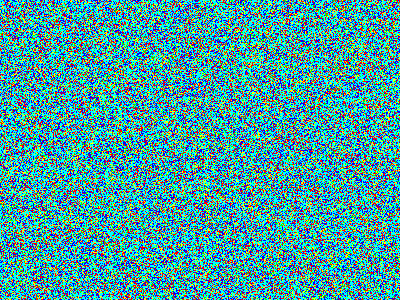
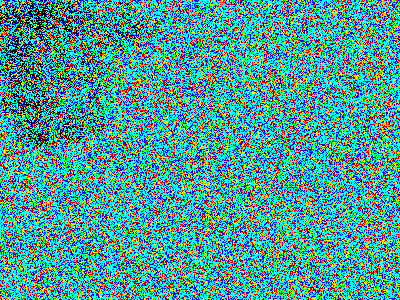
- Added multiple-layer per-tile support. - Created TileMapLayer class, removed drawing routines from TileMap and Tile - Added basic parallax prototype using TileMapLayer.

Changed region(s): [[0.0, 0.0, 0.36, 0.51]]

diff --git a/Western Space/TilingEngine/TileMap.cs b/Western Space/TilingEngine/TileMap.cs
@@ -9,49 +9,47 @@ using WesternSpace.Interfaces;
 
 namespace WesternSpace.TilingEngine
 {
-    public class TileMap : DrawableGameObject, IMapCoordinates
+    // TileMaps are merely the *data* of a grid of tiles.
+    // It knows nothing about how it should be drawn.
+    public class TileMap
     {
-        private SpriteBatch sb;
+        public readonly int gridCellHeight;
+        public readonly int gridCellWidth;
 
-        private int gridCellHeight;
+        private int layerCount;
+        private int subLayerCount;
 
-        private int gridCellWidth;
+        public int LayerCount
+        {
+            get { return layerCount; }
+        }
+
+        public int SubLayerCount
+        {
+            get { return subLayerCount; }
+        }
+
+        public int Width 
+        { 
+            get { return tiles.GetLength(0); }
+        }
+
+        public int Height 
+        {
+            get { return tiles.GetLength(1); }
+        }
 
         private Tile[,] tiles;
 
-        private ICameraService camera;
-
-        #region IMapCoordinates Members
-
-        public float MinimumX
+        public Tile[,] Tiles
         {
-            get { return 0; }
+            get { return tiles; }
         }
 
-        public float MaximumX
+        public TileMap(int cellX, int cellY, int tileWidth, int tileHeight, int layerCount, int subLayerCount)
         {
-            get { return gridCellWidth * tiles.GetLength(0); }
-        }
-
-        public float MinimumY
-        {
-            get { return 0; }
-        }
-
-        public float MaximumY
-        {
-            get { return gridCellHeight * tiles.GetLength(1); }
-        }
-
-        #endregion
-
-        public TileMap(Game game, int cellX, int cellY, int tileWidth, int tileHeight)
-            : base(game)
-        {
-            this.Enabled = false;
-
-            sb = new SpriteBatch(game.GraphicsDevice);
-
+            this.layerCount = layerCount;
+            this.subLayerCount = subLayerCount;
             tiles = new Tile[cellX,cellY];
             gridCellWidth = tileWidth;
             gridCellHeight = tileHeight;
@@ -62,54 +60,5 @@ namespace WesternSpace.TilingEngine
             tiles[x,y] = tile;
         }
 
-        public override void Initialize()
-        {
-            camera = (ICameraService)this.Game.Services.GetService(typeof(ICameraService));
-
-            base.Initialize();
-        }
-
-        public override void Draw(GameTime gameTime)
-        {
-            sb.Begin(SpriteBlendMode.None, SpriteSortMode.BackToFront, SaveStateMode.None, camera.CurrentViewMatrix);
-            float cam_x = camera.Position.X;
-            float cam_y = camera.Position.Y;
-            float cam_w = camera.VisibleArea.Width;
-            float cam_h = camera.VisibleArea.Height;
-
-            int start_x, end_x, start_y, end_y;
-
-            start_x = (int)MathHelper.Clamp((float)Math.Floor((cam_x / gridCellWidth)), 0.0f, (float)tiles.GetLength(0));
-            start_y = (int)MathHelper.Clamp((float)Math.Floor((cam_y / gridCellHeight)), 0.0f, (float)tiles.GetLength(1));
-
-            end_x = (int)MathHelper.Clamp((float)Math.Ceiling(((cam_x+cam_w) / gridCellWidth)), 0.0f, (float)tiles.GetLength(0));
-            end_y = (int)MathHelper.Clamp((float)Math.Ceiling(((cam_y+cam_h) / gridCellWidth)), 0.0f, (float)tiles.GetLength(1));
-
-
-            for (int x = start_x; x < end_x; ++x)
-            {
-                for (int y = start_y; y < end_y; ++y)
-                {
-                    Vector2 position = new Vector2(x * gridCellWidth, y * gridCellHeight);
-
-                    tiles[x, y].Draw(sb, position);
-                }
-            }
-
-            sb.End();
-
-            base.Draw(gameTime);
-        }
-
-        #region IMapCoordinates Members
-
-        public Vector2 CalculateMapCoordinatesFromMouse(Vector2 atPoint)
-        {
-            int x = (int)Math.Floor((camera.Position.X / gridCellWidth) + atPoint.X / gridCellWidth);
-            int y = (int)Math.Floor((camera.Position.Y / gridCellHeight) + atPoint.Y / gridCellHeight);
-            return new Vector2(x, y);
-        }
-
-        #endregion
     }
 }

diff --git a/Western Space/TilingEngine/TileMapLayer.cs b/Western Space/TilingEngine/TileMapLayer.cs
@@ -1,0 +1,120 @@
+using System;
+using System.Collections.Generic;
+using System.Linq;
+using System.Text;
+using Microsoft.Xna.Framework;
+using Microsoft.Xna.Framework.Graphics;
+using WesternSpace.ServiceInterfaces;
+using WesternSpace.Interfaces;
+
+namespace WesternSpace.TilingEngine
+{
+    class TileMapLayer : DrawableGameObject, IMapCoordinates
+    {
+        private SpriteBatch sb;
+        private ICameraService camera;
+
+        private TileMap tm;
+
+        private float scrollSpeed;
+
+        private int layerIndex;
+
+        public int LayerIndex
+        {
+            get { return layerIndex; }
+        }
+
+        #region IMapCoordinates Members
+
+        public float MinimumX
+        {
+            get { return 0; }
+        }
+
+        public float MaximumX
+        {
+            get { return tm.gridCellWidth * tm.Tiles.GetLength(0); }
+        }
+
+        public float MinimumY
+        {
+            get { return 0; }
+        }
+
+        public float MaximumY
+        {
+            get { return tm.gridCellHeight * tm.Tiles.GetLength(1); }
+        }
+
+        #endregion
+
+        public TileMapLayer(Game game, TileMap tm, int layerIndex)
+            : base(game)
+        {
+            this.layerIndex = layerIndex;
+            scrollSpeed = 1.0f;
+            this.tm = tm;
+        }
+
+        public TileMapLayer(Game game, TileMap tm, int layerIndex, float scrollSpeed)
+            : base(game)
+        {
+            this.layerIndex = layerIndex;
+            this.scrollSpeed = scrollSpeed;
+            this.tm = tm;
+        }
+
+        public override void Initialize()
+        {
+            camera = (ICameraService)this.Game.Services.GetService(typeof(ICameraService));
+            sb = new SpriteBatch(this.Game.GraphicsDevice);
+            base.Initialize();
+        }
+
+        public override void Draw(GameTime gameTime)
+        {
+            sb.Begin(SpriteBlendMode.None, SpriteSortMode.BackToFront, SaveStateMode.None, camera.CurrentViewMatrix);
+            float cam_x = camera.Position.X*scrollSpeed;
+            float cam_y = camera.Position.Y*scrollSpeed;
+            float cam_w = camera.VisibleArea.Width;
+            float cam_h = camera.VisibleArea.Height;
+
+            int start_x, end_x, start_y, end_y;
+
+            start_x = (int)MathHelper.Clamp((float)Math.Floor((cam_x / tm.gridCellWidth)), 0.0f, (float)tm.Width);
+            start_y = (int)MathHelper.Clamp((float)Math.Floor((cam_y / tm.gridCellHeight)), 0.0f, (float)tm.Height);
+
+            end_x = (int)MathHelper.Clamp((float)Math.Ceiling(((cam_x + cam_w) / tm.gridCellWidth)), 0.0f, (float)tm.Width);
+            end_y = (int)MathHelper.Clamp((float)Math.Ceiling(((cam_y + cam_h) / tm.gridCellWidth)), 0.0f, (float)tm.Height);
+
+
+            for (int x = start_x; x < end_x; ++x)
+            {
+                for (int y = start_y; y < end_y; ++y)
+                {
+                    Vector2 position = new Vector2(x * tm.gridCellWidth, y * tm.gridCellHeight) + (camera.Position - camera.Position*scrollSpeed);
+                    for (int subLayerIndex = 0; subLayerIndex < tm.SubLayerCount; ++subLayerIndex)
+                    {
+                        sb.Draw(tm.Tiles[x, y].Textures[layerIndex, subLayerIndex], position, Color.White);
+                    }
+                }
+            }
+
+            sb.End();
+
+            base.Draw(gameTime);
+        }
+
+        #region IMapCoordinates Members
+
+        public Vector2 CalculateMapCoordinatesFromMouse(Vector2 atPoint)
+        {
+            int x = (int)Math.Floor((camera.Position.X / tm.gridCellWidth) + atPoint.X / tm.gridCellWidth);
+            int y = (int)Math.Floor((camera.Position.Y / tm.gridCellHeight) + atPoint.Y / tm.gridCellHeight);
+            return new Vector2(x, y);
+        }
+
+        #endregion
+    }
+}

diff --git a/Western Space/TilingEngine/TileEngine.cs b/Western Space/TilingEngine/TileEngine.cs
@@ -38,7 +38,7 @@ namespace WesternSpace.TilingEngine
 
             layer.GetData<Color>(allPixels);
             Dictionary<Color, Tile> lookupTable = LoadSettingsFile(settingsFileName);
-            TileMap tm = new TileMap(game, layer.Width, layer.Height, 100, 100);
+            TileMap tm = new TileMap(layer.Width, layer.Height, 100, 100, 1, 1); // For now just 1 layer and 1 sublayer. (1 total texture per tile)
 
             for (int i = 0; i < allPixels.Length; i++)
             {
@@ -56,7 +56,10 @@ namespace WesternSpace.TilingEngine
         private Dictionary<Color, Tile> LoadSettingsFile(string settingsFileName)
         {
             Dictionary<Color, Tile> lookupTable = new Dictionary<Color, Tile>();
-
+            Texture2D empty = new Texture2D(this.game.GraphicsDevice, 1, 1);
+            Texture2D[,] tmp = new Texture2D[1, 1];
+            tmp[0, 0] = empty;
+            lookupTable.Add(Color.Black, new Tile(tmp));
             XElement rootLayerElement = XElement.Load(settingsFileName);
 
             IEnumerable<LayerInformation> textureInformation = from texture in rootLayerElement.Descendants("Texture")
@@ -74,8 +77,9 @@ namespace WesternSpace.TilingEngine
                 {
                     loadedTextures.Add(li.Name, game.Content.Load<Texture2D>(li.Name));
                 }
-
-                lookupTable.Add(li.Color, new Tile(loadedTextures[li.Name]));
+                Texture2D[,] textures = new Texture2D[1,1];
+                textures[0,0] = loadedTextures[li.Name];
+                lookupTable.Add(li.Color, new Tile(textures));
             }
 
             return lookupTable;

diff --git a/Western Space/TilingEngine/Tile.cs b/Western Space/TilingEngine/Tile.cs
@@ -9,26 +9,31 @@ namespace WesternSpace.TilingEngine
 {
     public class Tile
     {
-        private Texture2D texture;
+        private Texture2D[,] textures;
 
-        public Texture2D Texture
+        public Texture2D[,] Textures
         {
-            get { return texture; }
-            set { texture = value; }
+            get { return textures; }
+            set { textures = value; }
+        }
+
+        public int LayerCount
+        {
+            get { return textures.GetLength(0); }
+        }
+
+        public int SubLayerCount
+        {
+            get { return textures.GetLength(1); }
         }
 
         public Tile()
         {
         }
 
-        public Tile(Texture2D texture)
+        public Tile(Texture2D[,] textures)
         {
-            this.texture = texture;
-        }
-
-        public void Draw(SpriteBatch sb, Vector2 drawPosition)
-        {
-            sb.Draw(this.Texture, drawPosition, Color.White);
+            this.textures = textures;
         }
     }
 }

diff --git a/Western Space/Screens/GameScreen.cs b/Western Space/Screens/GameScreen.cs
@@ -61,12 +61,16 @@ namespace WesternSpace.Screens
         {
             // Create our tilemap
             TileMap tm = tileEngine.LoadLayer("Layers\\BigTestLayer", "LayerXML\\TestLayer.xml");
-            tm.DrawOrder = 1;
-            this.Game.Components.Add(tm);
+            TileMapLayer tml = new TileMapLayer(this.Game, tm, 0);
+            TileMapLayer background = new TileMapLayer(this.Game, tm, 0, 0.25f);
+            tml.DrawOrder = 1;
+            background.DrawOrder = -10;
+            this.Game.Components.Add(tml);
+            this.Game.Components.Add(background);
 
-            layerService.Layers["TestLayer"] = tm;
+            layerService.Layers["TestLayer"] = tml;
 
-            MapCoordinateComponent mcc = new MapCoordinateComponent(this.Game, tm);
+            MapCoordinateComponent mcc = new MapCoordinateComponent(this.Game, tml);
             mcc.UpdateOrder = 2;
             mcc.DrawOrder = 2;
             this.Game.Components.Add(mcc);

diff --git a/Western Space/Services/LayerService.cs b/Western Space/Services/LayerService.cs
@@ -9,16 +9,16 @@ namespace WesternSpace.Services
 {
     class LayerService : ILayerService
     {
-        private Dictionary<string, TileMap> layers;
+        private Dictionary<string, TileMapLayer> layers;
 
         public LayerService()
         {
-            layers = new Dictionary<string, TileMap>();
+            layers = new Dictionary<string, TileMapLayer>();
         }
 
         #region ILayerService Members
 
-        public Dictionary<string, WesternSpace.TilingEngine.TileMap> Layers
+        public Dictionary<string, WesternSpace.TilingEngine.TileMapLayer> Layers
         {
             get { return layers; }
         }

diff --git a/Western Space/Services/CameraService.cs b/Western Space/Services/CameraService.cs
@@ -20,7 +20,7 @@ namespace WesternSpace.Services
 
         private IInputManagerService inputManager;
 
-        private const int SCROLL_SPEED = 50;
+        private const int SCROLL_SPEED = 14;
 
         #region ICamera Members
 

diff --git a/Western Space/ServiceInterfaces/ILayerService.cs b/Western Space/ServiceInterfaces/ILayerService.cs
@@ -8,7 +8,7 @@ namespace WesternSpace.ServiceInterfaces
 {
     interface ILayerService
     {
-        Dictionary<string, TileMap> Layers
+        Dictionary<string, TileMapLayer> Layers
         {
             get;
         }
